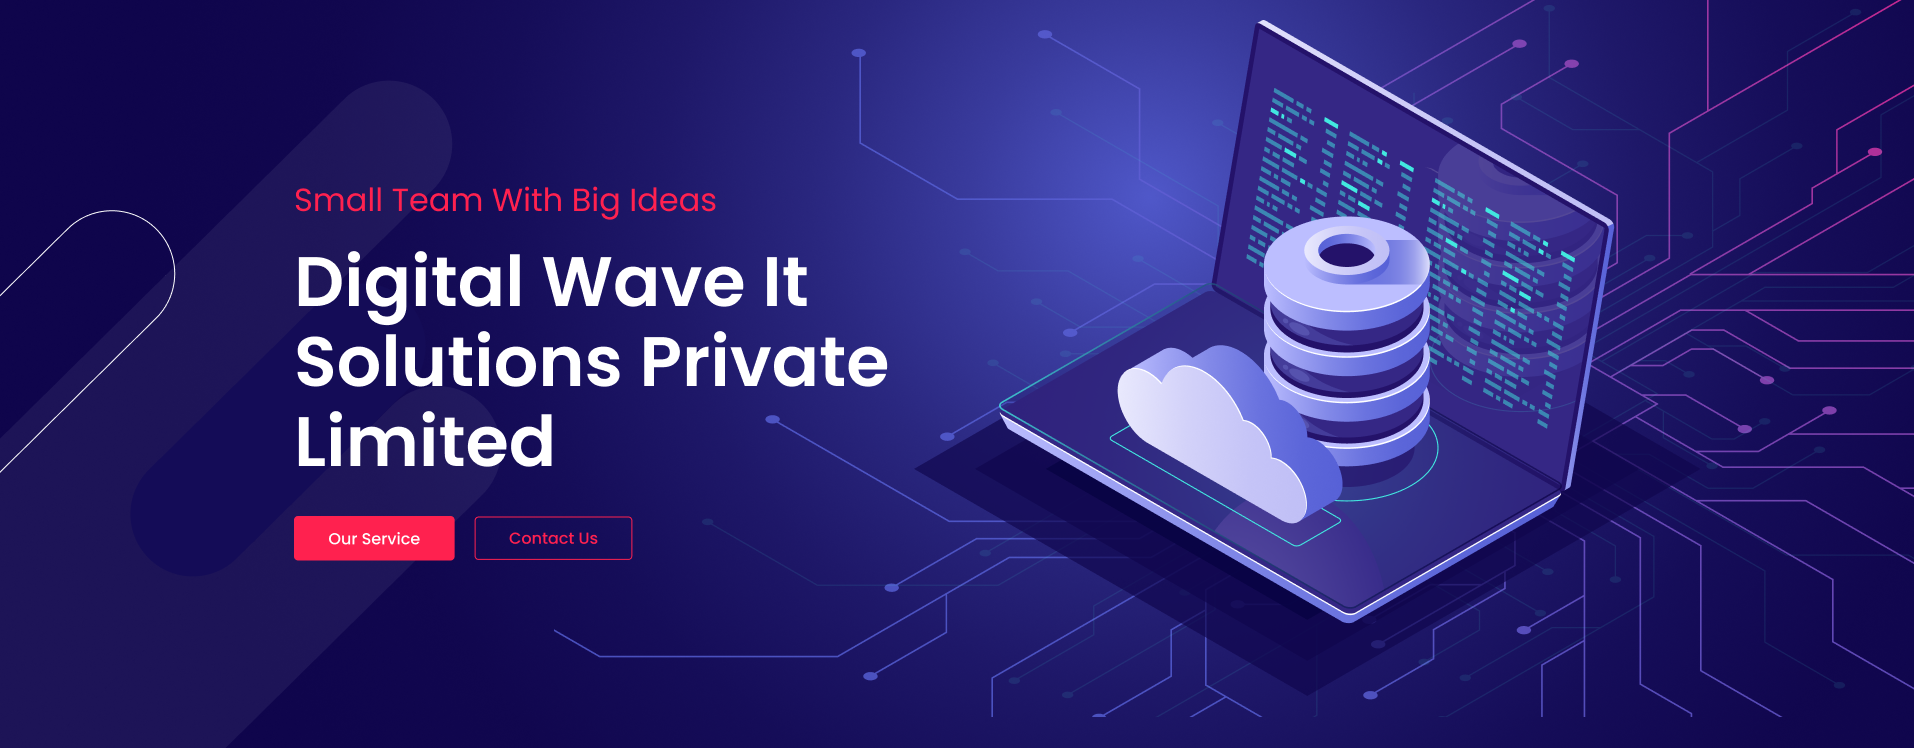
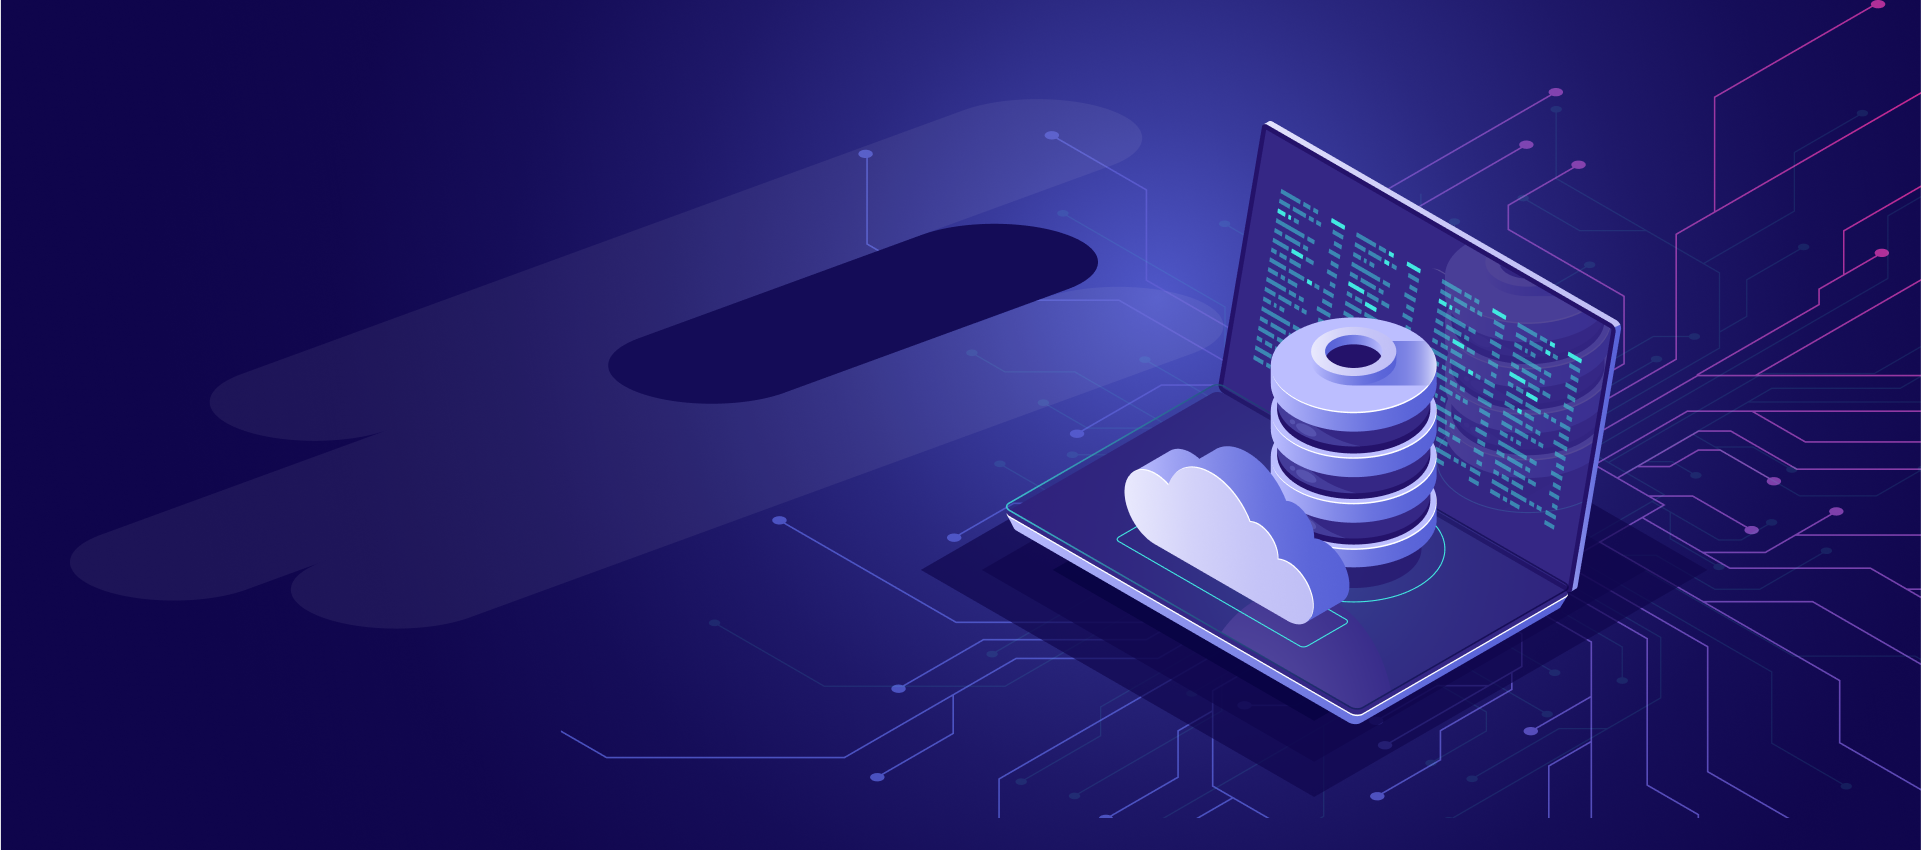
update

diff --git a/index.html b/index.html
@@ -21,6 +21,7 @@
 
 
     <section class="header">
+        
                 <nav>
                     <a href="index.html"><img src="assests/images/logo.png"></a>
                     <div class="nav-links">
@@ -35,7 +36,16 @@
                             <li><a href="#">Contact</a></li>
                         </ul>
                     </div>
-                </nav>
+                 </nav>
+                 <div class="text-box">
+                    <p class="subtitle">Small Team With Big Ideas</p>
+                    <h1 class="title">Digital Wave IT 
+                        <br>    Solutions Private Limited</h1>
+                    <div class="buttons">
+                      <a href="#" class="button service">Our Service</a>
+                      <a href="#" class="button contact">Contact Us</a>
+                    </div>
+                  </div>
     </section>
 
 <!-- Home Section End -->
@@ -50,7 +60,7 @@
             <h2>Web Development</h2>
             <p>we work with different different technology like - html ,css js, php ,Django with framework bootstrap , react and many more.</p>
         </div>
-        <div class="card highlight">
+        <div class="card">
             <div class="work-icon">
                 <img src="assests/images/work Icon-2.png" alt="Mobile app Design Icon">
             </div>
@@ -95,47 +105,41 @@
 <!-- Our See Section Start -->
 
     <section class="chat">
-        <div class="heading">
-            <h2>We See</h2>
-            <h1>What Other Don't See.</h1>
-        </div>
-        <div class="see-content">
-            <div class="steps">
-                <div class="step">
-                    <div class="log">
-                        <img src="assests/images/plan icon-4.png" alt="Planning Icon">
-                    </div>
-                    <h3>1.Planning</h3>
-                    <p>Project requirements for designing a part can be divided into two main categories: functional and non-functional requirements.</p>
+        <div class="main-container">
+            <header>
+              <p class="subheading">We See</p>
+              <h1 class="heading">What Other Don't See.</h1>
+            </header>
+            <div class="content">
+              <div class="left-container">
+                <div class="sub-container">
+                  <h2>1. Planning</h2>
+                  <img src="icon1.png" alt="Planning Icon" class="icon">
+                  <p>Project requirements for designing a part can be divided into two main categories: functional and non-functional requirements.</p>
                 </div>
-                <div class="step">
-                    <div class="log">
-                        <img src="assests/images/plan icon-2.png" alt="Develop Icon">
-                    </div>
-                    <h3>3.Develope</h3>
-                    <p>Project requirements for designing a part can be divided into two main categories: functional and non-functional requirements.</p>
+                <div class="sub-container">
+                  <h2>3. Develop</h2>
+                  <img src="icon3.png" alt="Develop Icon" class="icon">
+                  <p>Project requirements for designing a part can be divided into two main categories: functional and non-functional requirements.</p>
                 </div>
+              </div>
+              <div class="center-container">
+                <img src=".../assests/images/Image-3.png" alt="Phone Mockup" class="mockup">
+              </div>
+              <div class="right-container">
+                <div class="sub-container">
+                  <img src="icon2.png" alt="Mockup Icon" class="icon">
+                  <h2>2. Mockup</h2>
+                  <p>Project requirements for designing a part can be divided into two main categories: functional and non-functional requirements.</p>
+                </div>
+                <div class="sub-container">
+                  <img src="icon4.png" alt="Provide Icon" class="icon">
+                  <h2>4. Provide</h2>
+                  <p>Project requirements for designing a part can be divided into two main categories: functional and non-functional requirements.</p>
+                </div>
+              </div>
             </div>
-            <div class="steps">
-                <div class="step">
-                    <div class="log">
-                        <img src="assests/images/plan icon.png" alt="Mockup Icon">
-                    </div>
-                    <h3>2.Mockup</h3>
-                    <p>Project requirements for designing a part can be divided into two main categories: functional and non-functional requirements.</p>
-                </div>
-                <div class="step">
-                    <div class="log">
-                        <img src="assests/images/plan icon-5.png" alt="Provide Icon">
-                    </div>
-                    <h3>4.Provide</h3>
-                    <p>Project requirements for designing a part can be divided into two main categories: functional and non-functional requirements.</p>
-                </div>
-            </div>
-            <div class="img">
-                <img src="assests/images/Image-3.png" alt="App Screenshot">
-            </div>
-        </div>
+          </div>
     </section>
 
 <!-- our See End -->
@@ -448,7 +452,7 @@
                     <img src="assests/images/con-Icon-4.png" alt="">
                 </div>
                 <h5>Example.com</h5>
-                <p>digitalwaveitsolution.com</p>
+                <p href="https://digitalwaveitsolution.com">digitalwaveitsolution.com</p>
             </div>
         </div>
         <div class="contact-form">
@@ -496,7 +500,8 @@
             <h3>Contact Info</h3>
             <ul>
                 <li><span class="icon">&#x1F4CD;</span> 39 A mitra nagar kirhini phatak jaipur</li>
-                <li><span class="icon">&#x2709;</span> contact2digitalwave@gmail.com</li>
+                <li><span class="icon">&#x2709;</span> contact2digitalwave<br>
+                    @gmail.com</li>
                 <li><span class="icon">&#x260E;</span> +91-1413181323, 9549145956</li>
             </ul>
         </div>

diff --git a/assests/index.css b/assests/index.css
@@ -17,9 +17,11 @@ nav{
     padding: 2% 6%;
     justify-content: space-between;
     align-items: center;
+    margin-right: 150px;
 }
 nav img{
-    width: 100px;
+    width: 50px;
+    margin-left: 150px;
     
 }
 .nav-links{
@@ -49,7 +51,59 @@ nav img{
 .nav-links ul li:hover::after{
     width: 100%;
 }
-
+.text-box{
+    text-align: left;
+  margin-left: 150px;
+  margin-top: 100px;
+    
+}
+.subtitle {
+    color: #ff4c4c;
+    font-size: 1.5rem;
+    margin-bottom: 10px;
+  }
+  
+  .title {
+    font-size: 3rem;
+    font-weight: bold;
+    line-height: 1.2;
+    margin-bottom: 20px;
+    color: #F6F6F9;
+  }
+  
+  .buttons {
+    display: flex;
+    gap: 20px;
+  }
+  
+  .button {
+    padding: 15px 25px;
+    font-size: 1rem;
+    font-weight: bold;
+    text-decoration: none;
+    border-radius: 5px;
+    transition: background-color 0.3s ease, color 0.3s ease;
+  }
+  .service {
+    background-color: transparent;
+    color: #ff4c4c;
+    border: 2px solid #ff4c4c
+  }
+  
+  .service:hover {
+    background-color: #ff1a1a;
+  }
+  
+  .contact {
+    background-color: transparent;
+    color: #ff4c4c;
+    border: 2px solid #ff4c4c;
+  }
+  
+  .contact:hover {
+    background-color: #ff4c4c;
+    color: #fff;
+  }
 /* Home End */
 
 /* Work Start */
@@ -59,7 +113,9 @@ nav img{
     flex-wrap: wrap;
     width: 100%;
     background-color: #F6F6F9;
-    margin: 70px 70px;
+    margin-top: 70px;
+    margin-bottom: 70px;
+    
 }
 
 .card {
@@ -69,18 +125,16 @@ nav img{
     margin: 10px;
     padding: 20px;
     text-align: left;
-    min-width: 250px;
-    max-width: 300px;
+    width: 250px;
+    
     clip-path: polygon(0 0, 100% 0, 100% 20%, 100% 80%, 80% 100%, 20% 100%, 0 100%, 0% 20%);
-    transition: transform 0.3s;
-}
-.card.highlight {
-    background-color:#24126A;
-    color: #fff;
+    transition: transform 0.3s ease, background-color 0.3s ease;
 }
 
+
 .card:hover {
-    transform: translateY(-10px);
+    background-color: #C0C0C0; /* Change this to your desired hover background color */
+    transform: scaleY(1.1);   
 }
 
 .work-icon img{
@@ -164,76 +218,94 @@ nav img{
     justify-content: center;
 }
 
-.heading {
-    margin-bottom: 30px;
-    margin-top: 30px;
-}
-
-.heading h2 {
-    color: #e02d2d;
-    font-size: 1.5em;
-}
-
-.heading h1 {
-    font-size: 2.5em;
-    margin-top: 10px;
+.main-container {
+    width: 90%;
+    max-width: 1200px;
+    padding: 20px;
+  }
+  
+  header {
     margin-bottom: 20px;
-}
-
-.see-content {
+  }
+  
+  .subheading {
+    color: #ff4c4c;
+    font-size: 1.5rem;
+    margin-bottom: 10px;
+  }
+  
+  .heading {
+    font-size: 2.5rem;
+    font-weight: bold;
+  }
+  
+  .content {
     display: flex;
     justify-content: space-between;
     align-items: center;
-    flex-wrap: wrap;
-}
-
-.steps {
+  }
+  
+  .left-container{
     display: flex;
     flex-direction: column;
     justify-content: space-between;
-    width: 900px;
-    margin: 0 auto;
-    margin-left: 200px;
-}
+    height: 75%;
+    margin-left: 150px;
+    margin-top: 70px;
+    margin-bottom: 70px;
+  }
 
-.step {
+
+
+  .right-container {
     display: flex;
-    align-items: left;
-    margin: 20px 0;
-}
-
-.log{
-    flex: 0 0 50px;
-    margin-right: 20px;
-
-}.log img {
-    width: 100px;
-    height: 100px;
-}
-
-.log h3 {
-    font-size: 1.2em;
-    margin-bottom: 5px;
-}
-
-.steps .step p {
-    font-size: 0.9em;
-    color: #666;
+    flex-direction: column;
+    justify-content: space-between;
+    height: 75%;
+    margin-right: 150px;
+    margin-top: 70px;
+    margin-bottom: 70px;
+  }
+  
+  .sub-container {
+    background-color: #f8f8f8;
+    padding: 20px;
+    border-radius: 10px;
+    width: 250px;
+    box-shadow: 0 0 10px rgba(0, 0, 0, 0.1);
+    position: relative;
+    margin-bottom: 20px;
     text-align: left;
-    padding-top: 20%;
-}
-.img {
-    flex: 1;
-    text-align: center;
-    padding-top: 80px;
-    align-items: center;
-}
-
-.img img {
+  }
+  
+  .sub-container .icon {
+    position: absolute;
+    top: 20px;
+    right: -50px; /* Adjust to position the icon outside the container */
+    width: 40px;
+    height: 40px;
+  }
+  
+  .right-container .sub-container .icon {
+    left: -50px; /* Adjust to position the icon outside the container */
+    right: auto;
+  }
+  
+  .center-container {
+    flex-grow: 1;
+    display: flex;
+    justify-content: center;
+    height: 100%;
+    margin-top: 35px;
+    margin-bottom: 35px;
+  }
+  
+  .mockup {
     max-width: 100%;
     height: auto;
-    border-radius: 20px;
-}
+  }
+    
+  
 /* Our See End */
 
 /*Services Start*/
